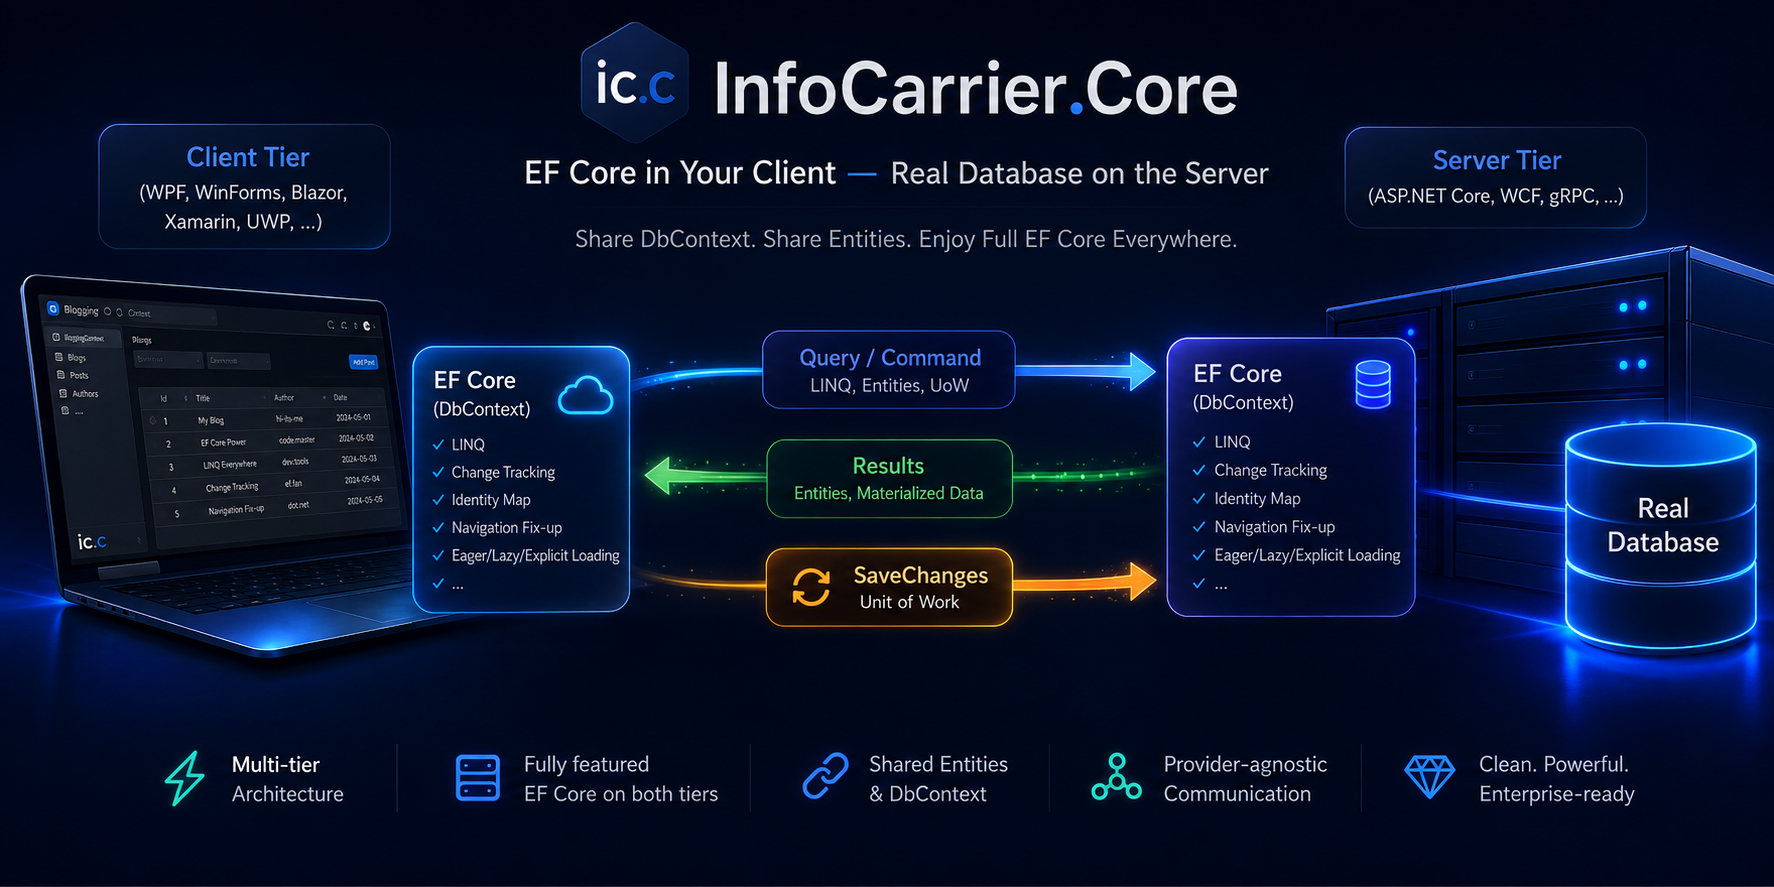
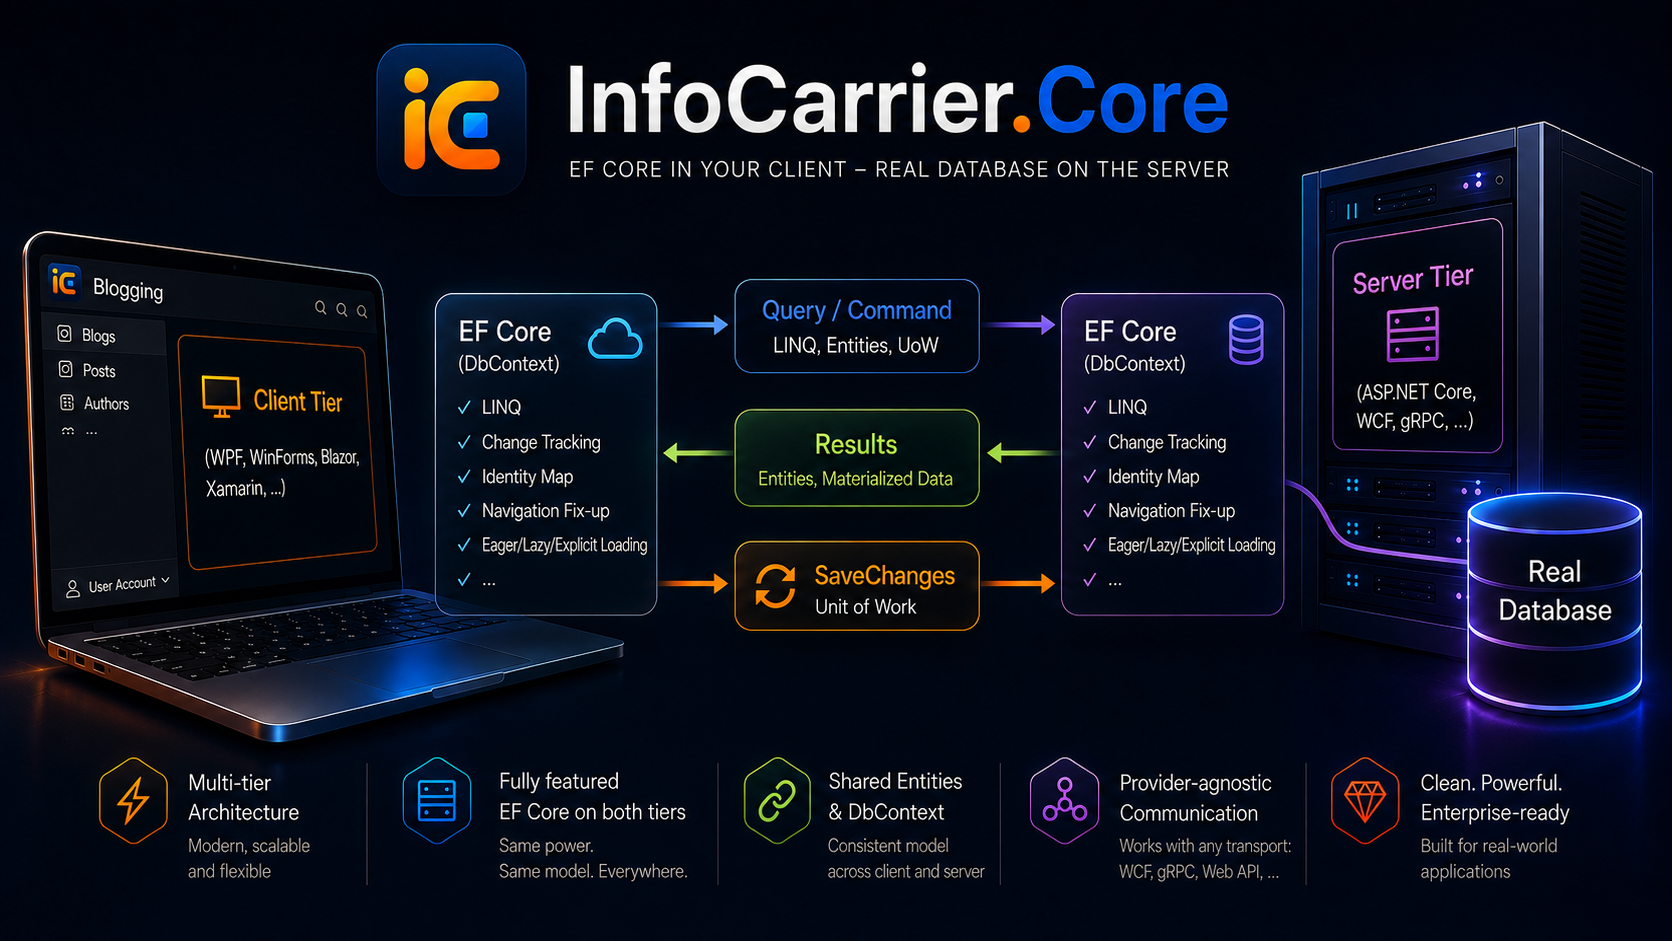
New artwork, and the trim it needed
The designer's rounded tile replaces the hexagon: the icon source, the six
icons derived from it, and the banner. Only the artwork changes; every path
and file name is the same, so the README, the manifest and the site pick the
new mark up without an edit.

make-icons.py now takes the crop box from the alpha channel above a floor
instead of from getbbox(). The new source carries a halo of alpha=1 around
the glow. It is invisible over any background but it is not zero in every
band, which is all getbbox() trims, so it held the box open 55px past the
mark at the bottom and 8px at the left. The icons came out both smaller than
the canvas allows and off-centre, because the padding left behind was uneven.

The floor of 2 is not a tuned number: on this source the box moves 3px or
less for any floor from 2 all the way to 128. Nothing between the haze and
the mark is cut, so the soft edge still comes along and the glow survives.

diff --git a/eng/make-icons.py b/eng/make-icons.py
@@ -33,13 +33,14 @@ WHAT SURVIVED THE CUT, AND WHY EACH ONE IS LOAD-BEARING:
                        nothing on this list above it is fetched more than once, if ever.
 
   No SVG: the artwork is raster, lit and bevelled, and a traced approximation would be a different
-  mark. No maskable variant: Android's maskable safe zone is the middle 80%, and a hexagon padded
-  to survive that crop is small enough in the tile to look like a mistake.
+  mark. No maskable variant: Android's maskable safe zone is the middle 80%, and this mark is
+  already a rounded tile whose lit rim is the point of it -- padded to survive that crop it sits
+  small enough inside Android's own tile to look like a mistake.
 
 TRANSPARENCY IS KEPT EVERYWHERE, no invented background. iOS composites a transparent home-screen
 icon on black, which the artwork's near-black rim and neon edge are already lit for -- it reads as
 a tile. A white or navy plate was tried and both were worse: white shrinks the mark to fit its
-padding, navy sits close enough to the hexagon's own fill to flatten it.
+padding, navy sits close enough to the mark's own fill to flatten it.
 
 AND THE SOURCE ARRIVES AS ARTWORK, with a real alpha channel, which is why this script is a fit and
 a resize rather than a flood fill. Earlier sources were browser screenshots -- square, opaque, white
@@ -75,6 +76,19 @@ TARGETS = [
 ICO = os.path.join(WEB, "favicon.ico")
 ICO_SIZES = [16, 32, 48]
 
+# The alpha below which a pixel is empty space rather than part of the mark.
+#
+# `Image.getbbox()` ALONE IS NOT ENOUGH, and it fails silently. It trims only pixels that are zero
+# in every band, so one row of alpha=1 -- invisible over any background, and exactly what a soft
+# outer glow fades into -- holds the box open. A source arrived carrying that haze 55px past the
+# mark on one side and 8px on another, and its icons came out both smaller than the canvas allows
+# and visibly off-centre, because the padding left behind was uneven.
+#
+# 2 IS NOT A TUNED NUMBER, and that is the point: on that source the box moves at most 3px for any
+# floor from 2 all the way to 128. Nothing between the haze and the mark is being cut, so the soft
+# edge comes along, which is what keeps the glow on the rendered icon.
+ALPHA_FLOOR = 2
+
 
 def render(mark, canvas, margin):
     """Fit the mark inside `canvas`, centred, leaving `margin` px on the tightest axis."""
@@ -91,9 +105,10 @@ def render(mark, canvas, margin):
 def main():
     src = Image.open(SRC).convert("RGBA")
 
-    # Trim to what is actually opaque, so every margin below is measured from the mark rather than
+    # Trim to what is actually visible, so every margin below is measured from the mark rather than
     # from however much transparent space the source happens to carry around it.
-    mark = src.crop(src.getbbox())
+    visible = src.getchannel("A").point(lambda a: 255 if a >= ALPHA_FLOOR else 0)
+    mark = src.crop(visible.getbbox())
 
     os.makedirs(WEB, exist_ok=True)
 
@@ -115,7 +130,8 @@ def main():
     assert written == sorted(ICO_SIZES), f"{ICO} got frames {written}, wanted {sorted(ICO_SIZES)}"
     print(f"{ICO:48s} {'/'.join(str(n) for n in written)}  {os.path.getsize(ICO)} bytes")
 
-    print(f"\nall from {SRC}  {src.size[0]}x{src.size[1]}, mark {mark.width}x{mark.height}")
+    print(f"\nall from {SRC}  {src.size[0]}x{src.size[1]}, mark {mark.width}x{mark.height}"
+          f" (trimmed at alpha {ALPHA_FLOOR})")
 
 
 if __name__ == "__main__":
